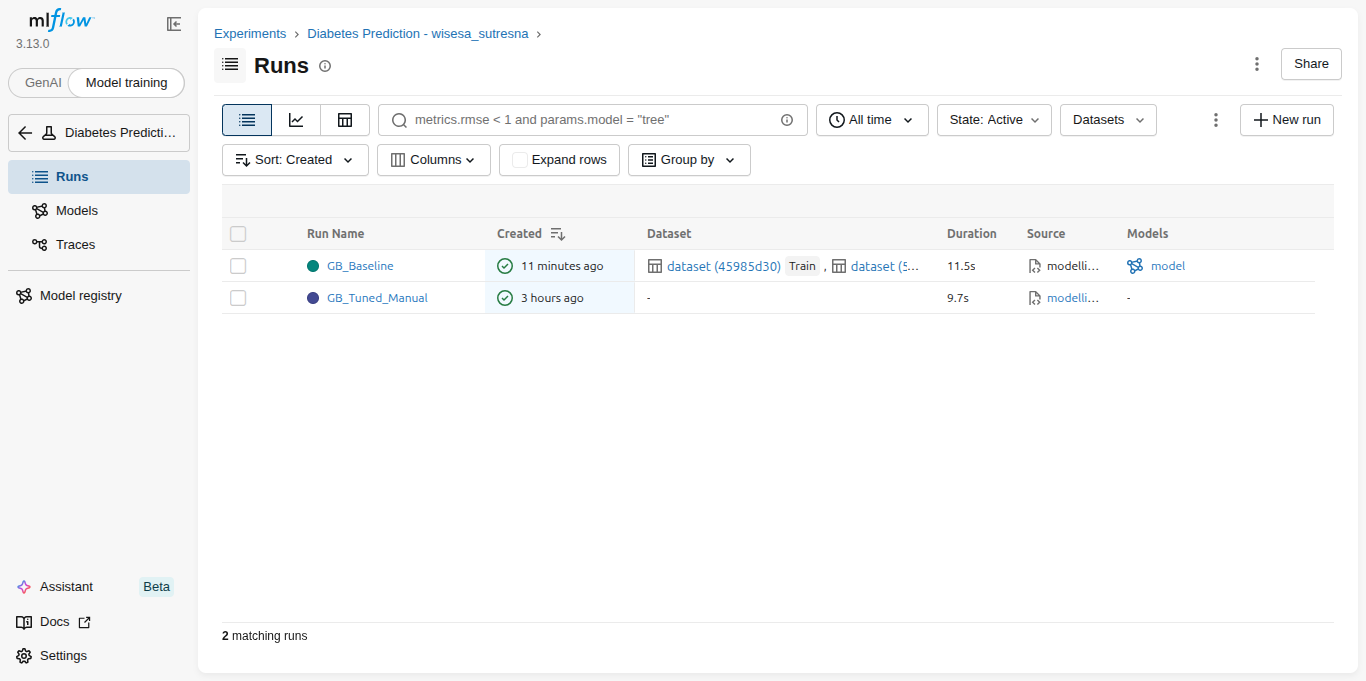
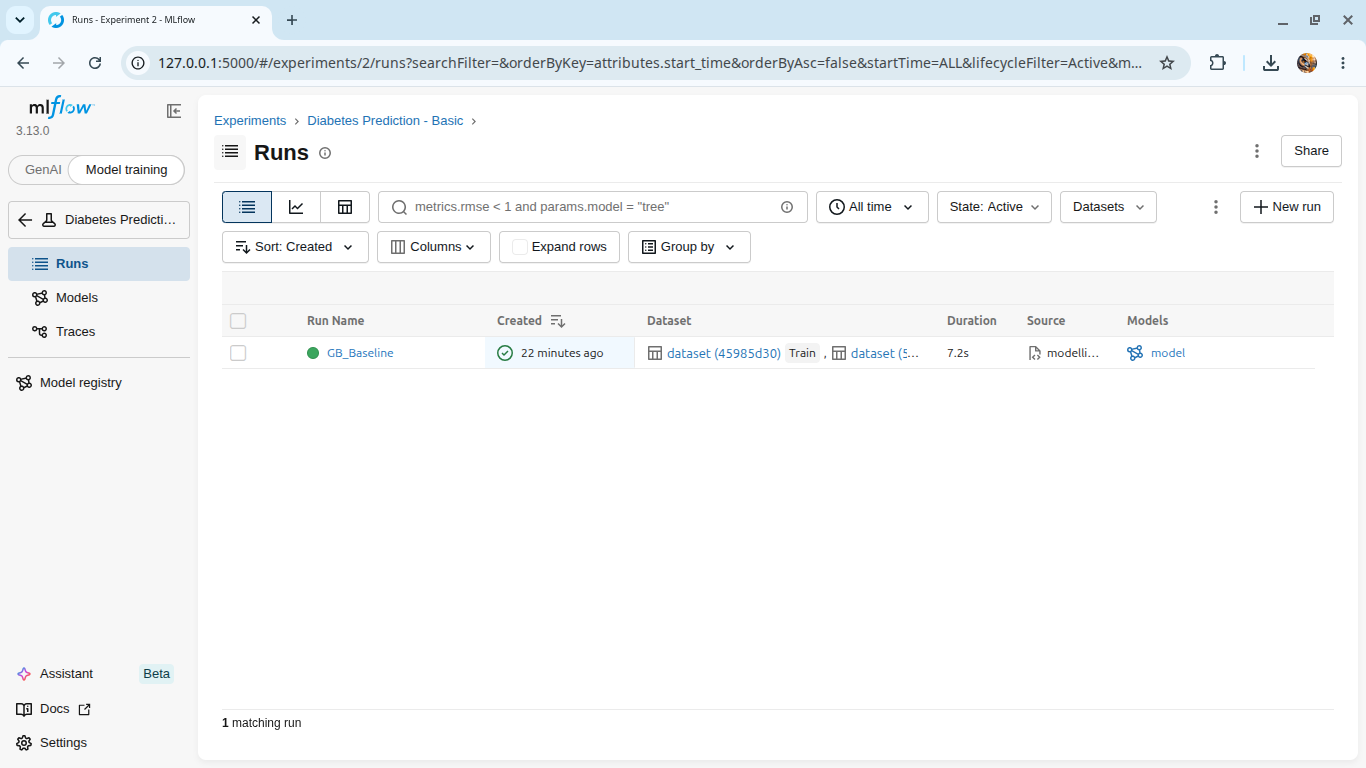
fix: update screenshot Basic & tambah screenshot Skilled dan Advanced DagsHub

diff --git a/Membangun_model/modelling_tuning.py b/Membangun_model/modelling_tuning.py
@@ -1,10 +1,11 @@
 import os
 import shutil
 import socket
+import matplotlib
+matplotlib.use('Agg')
+import matplotlib.pyplot as plt
 import pandas as pd
 import numpy as np
-import matplotlib.pyplot as plt
-import seaborn as sns
 from sklearn.model_selection import train_test_split, GridSearchCV
 from sklearn.ensemble import GradientBoostingClassifier
 from sklearn.metrics import (
@@ -12,19 +13,19 @@ from sklearn.metrics import (
     precision_score,
     recall_score,
     f1_score,
-    confusion_matrix,
     classification_report,
-    RocCurveDisplay
+    RocCurveDisplay,
 )
 import mlflow
 import mlflow.sklearn
 import dagshub
 
+
 def setup_tracking_env():
     """Mengonfigurasi DagsHub online tracking atau local MLflow fallback."""
     dagshub_owner = os.getenv("DAGSHUB_OWNER")
     dagshub_repo = os.getenv("DAGSHUB_REPO")
-    
+
     if dagshub_owner and dagshub_repo:
         try:
             dagshub.init(repo_owner=dagshub_owner, repo_name=dagshub_repo, mlflow=True)
@@ -33,7 +34,6 @@ def setup_tracking_env():
             print(f"Koneksi DagsHub gagal: {e}. Menggunakan tracking lokal.")
     else:
         print("Kredensial DagsHub tidak ditemukan di environment. Menggunakan MLflow lokal.")
-        # Cek port 5000 untuk mencegah koneksi yang hang
         a_socket = socket.socket(socket.AF_INET, socket.SOCK_STREAM)
         a_socket.settimeout(1.0)
         check = a_socket.connect_ex(("127.0.0.1", 5000))
@@ -44,7 +44,9 @@ def setup_tracking_env():
         else:
             print("Server MLflow lokal non-aktif. Menyimpan secara offline di ./mlruns")
 
-    mlflow.set_experiment("Diabetes Prediction - wisesa_sutresna")
+    # Eksperimen TERPISAH dari basic, khusus untuk tuning (kriteria submission Skilled)
+    mlflow.set_experiment("Diabetes Prediction - Tuning")
+
 
 def load_and_split_data(filepath):
     """Membaca dataset dan membaginya menjadi data training dan testing."""
@@ -52,6 +54,7 @@ def load_and_split_data(filepath):
     X = df.drop(columns=["Outcome"])
     y = df["Outcome"]
     return train_test_split(X, y, test_size=0.2, random_state=7, stratify=y)
+
 
 def perform_grid_search(X_train, y_train):
     """Mencari parameter model Gradient Boosting terbaik menggunakan GridSearchCV."""
@@ -65,87 +68,80 @@ def perform_grid_search(X_train, y_train):
     grid.fit(X_train, y_train)
     return grid.best_estimator_, grid.best_params_
 
+
 def log_evaluation_metrics(model, X_test, y_test, best_params):
-    """Melakukan evaluasi model dan mencatat seluruh parameter, metrik, serta model ke MLflow."""
+    """Melakukan evaluasi model dan mencatat seluruh parameter, metrik, serta model ke MLflow secara manual (tanpa autolog)."""
     preds = model.predict(X_test)
-    
-    # Perhitungan metrik evaluasi
+
     acc = accuracy_score(y_test, preds)
     prec = precision_score(y_test, preds)
     rec = recall_score(y_test, preds)
     f1 = f1_score(y_test, preds)
-    
+
     print(f"Hasil Evaluasi:\n- Akurasi: {acc:.4f}\n- Presisi: {prec:.4f}\n- Recall: {rec:.4f}\n- F1-Score: {f1:.4f}")
-    
+
     with mlflow.start_run(run_name="GB_Tuned_Manual"):
         # Log parameter terbaik hasil tuning secara manual
         for param, val in best_params.items():
             mlflow.log_param(param, val)
         mlflow.log_param("cross_validation_kfold", 3)
-        
+
         # Log metrik performa secara manual
         mlflow.log_metric("accuracy", acc)
         mlflow.log_metric("precision", prec)
         mlflow.log_metric("recall", rec)
         mlflow.log_metric("f1_score", f1)
-        
-        # Save model secara lokal terlebih dahulu untuk menghasilkan MLmodel, conda.yaml, model.pkl, dll.
+
+        # Simpan model lokal lalu log sebagai artifact folder 'model/'
         temp_model_dir = "temp_model_save"
         if os.path.exists(temp_model_dir):
             shutil.rmtree(temp_model_dir)
 
         mlflow.sklearn.save_model(model, temp_model_dir)
-
-        # Log folder tersebut sebagai artifacts ke path "model" di DagsHub
         mlflow.log_artifacts(temp_model_dir, artifact_path="model")
-
-        # Bersihkan folder temp lokal
         shutil.rmtree(temp_model_dir)
-        
-        # Pembuatan dan logging minimal 2 artefak tambahan (Persyaratan Advanced)
-        print("Menyimpan artefak tambahan evaluasi...")
-        
+
         # Artefak 1: Feature Importance Bar Plot
         importances = model.feature_importances_
         feature_names = X_test.columns
         indices = np.argsort(importances)
-        
+
         plt.figure(figsize=(6, 5))
         plt.barh(range(len(indices)), importances[indices], align='center', color='teal')
         plt.yticks(range(len(indices)), [feature_names[i] for i in indices])
         plt.xlabel('Relative Importance')
         plt.title('Feature Importances - Diabetes')
         plt.tight_layout()
-        
+
         feat_img = "feature_importance.png"
         plt.savefig(feat_img)
         plt.close()
         mlflow.log_artifact(feat_img)
-        
+
         # Artefak 2: ROC Curve Plot
         plt.figure(figsize=(6, 5))
         RocCurveDisplay.from_estimator(model, X_test, y_test)
         plt.title('ROC Curve - Diabetes Prediction')
         plt.tight_layout()
-        
+
         roc_img = "roc_curve.png"
         plt.savefig(roc_img)
         plt.close()
         mlflow.log_artifact(roc_img)
-        
-        # Artefak 3: Teks Laporan Laporan Klasifikasi
+
+        # Artefak 3: Laporan Klasifikasi (txt)
         report = classification_report(y_test, preds)
         rep_file = "classification_report.txt"
         with open(rep_file, "w") as f:
             f.write(report)
         mlflow.log_artifact(rep_file)
-        
-        # Hapus berkas lokal setelah selesai di-upload ke MLflow
+
         for temp_file in [feat_img, roc_img, rep_file]:
             if os.path.exists(temp_file):
                 os.remove(temp_file)
-                
+
     print("Seluruh proses tuning dan logging manual untuk Wisesa selesai!")
+
 
 if __name__ == "__main__":
     setup_tracking_env()

diff --git a/Membangun_model/modelling.py b/Membangun_model/modelling.py
@@ -7,31 +7,27 @@ import mlflow
 import mlflow.sklearn
 
 def main():
-    # Set nama eksperimen di MLflow
-    mlflow.set_experiment("Diabetes Prediction - wisesa_sutresna")
-    
-    # Aktifkan pencatatan otomatis (autolog)
+    # Set nama eksperimen khusus untuk model basic (kriteria submission Basic)
+    mlflow.set_experiment("Diabetes Prediction - Basic")
     mlflow.sklearn.autolog()
-    
+
     print("Memuat dataset hasil preprocessing...")
     data = pd.read_csv("diabetes_preprocessing.csv")
-    
+
     # Bagi fitur dan target (target: Outcome)
     X = data.drop(columns=["Outcome"])
     y = data["Outcome"]
-    
+
     # Lakukan pembagian training dan testing set
     X_train, X_test, y_train, y_test = train_test_split(
         X, y, test_size=0.2, random_state=7, stratify=y
     )
-    
-    print("Memulai pencatatan MLflow untuk baseline model...")
+
+    print("Memulai pencatatan MLflow untuk baseline model (Basic)...")
     with mlflow.start_run(run_name="GB_Baseline"):
-        # Buat model default Gradient Boosting
         model = GradientBoostingClassifier(random_state=7)
         model.fit(X_train, y_train)
-        
-        # Prediksi dan evaluasi
+
         y_pred = model.predict(X_test)
         acc = accuracy_score(y_test, y_pred)
         print(f"Akurasi Baseline Gradient Boosting: {acc:.4f}")